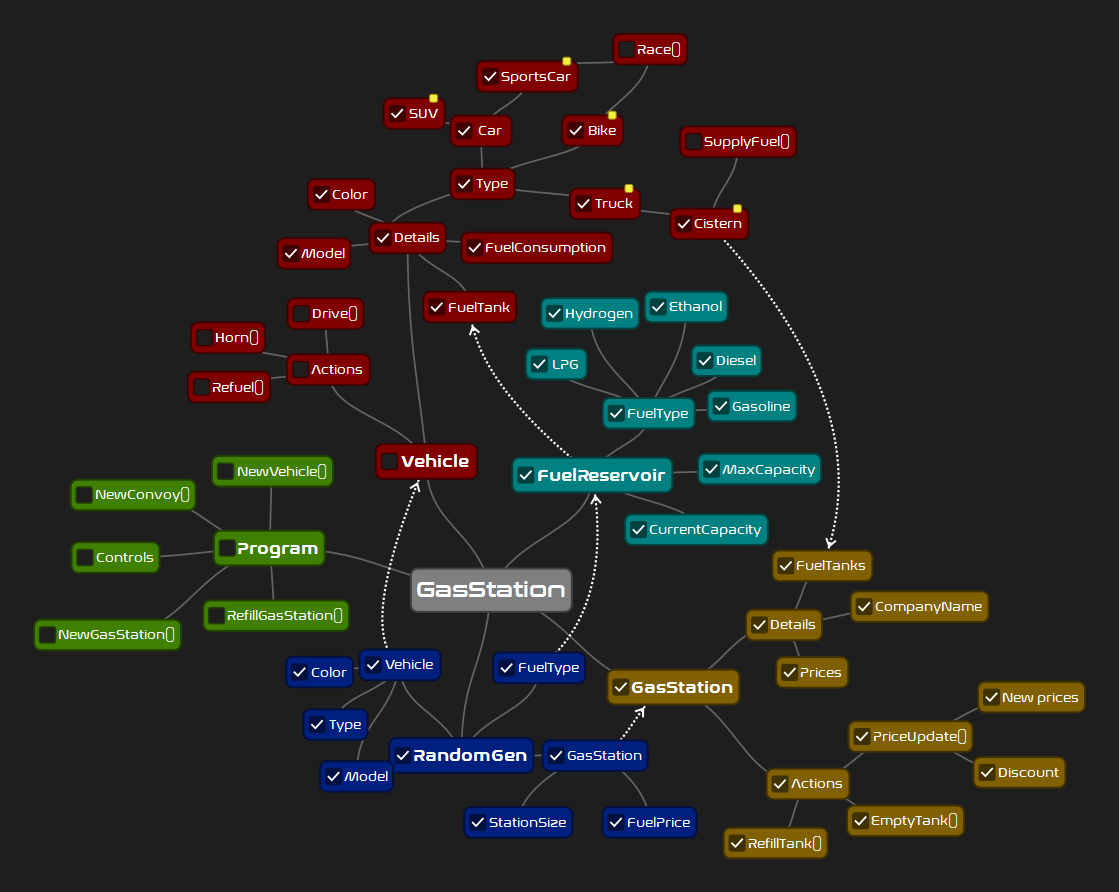
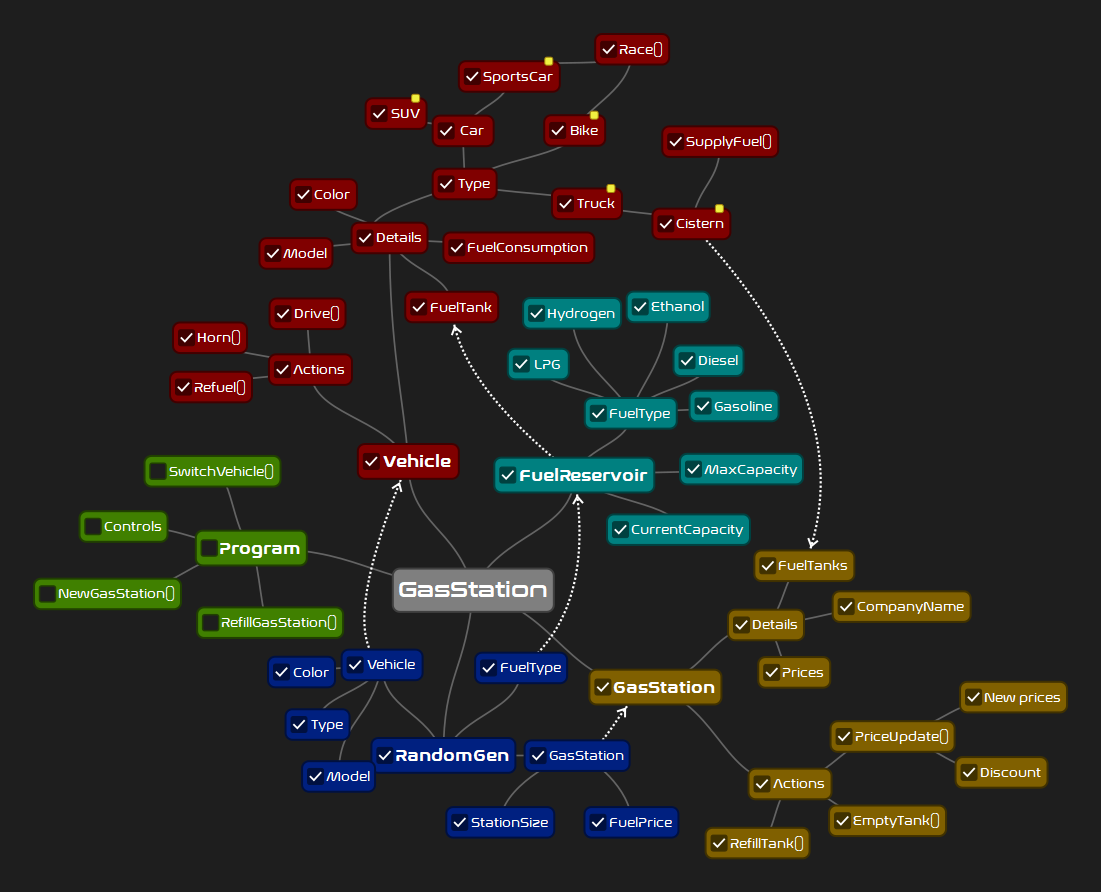
GasStation: added Vehicle functions

diff --git a/week-10/20-GasStation/Vehicle.cs b/week-10/20-GasStation/Vehicle.cs
@@ -6,12 +6,12 @@ namespace _20_GasStation
     class Vehicle
     {
         public enum Type { Car, SportsCar, SUV, Bike, Truck, Cistern }
-        public enum Color { Black, DarkRed, Red, Yellow, SkyBlue, DarkBlue, Metallic, White }
+        public enum Color { Black, Dark_Red, Red, Yellow, Sky_Blue, Dark_Blue, Metallic, White }
         protected string VehicleType { get; }
         protected string VehicleModel { get; }
         protected string VehicleColor { get; }
         protected float FuelConsumption;
-        FuelReservoir FuelTank;
+        protected FuelReservoir FuelTank;
 
         public Vehicle(Type vehicle, string model, string color, FuelReservoir.Type fuel)
         {
@@ -35,6 +35,8 @@ namespace _20_GasStation
                     FuelConsumption = 1.0f * Program.defaultUnit;
                     break;
             }
+            if (vehicle == Type.Cistern) FuelTank.CurrentCapacity = FuelTank.MaxCapacity;
+            else FuelTank.CurrentCapacity = 3 * (int)FuelConsumption;
         }
 
         public Vehicle(Type vehicle, string model, Color color, FuelReservoir.Type fuel)
@@ -63,9 +65,68 @@ namespace _20_GasStation
 
         public override string ToString()
         {
-            return $"\nYou're now driving {VehicleColor.ToLower()} {VehicleModel}!\n" +
+            return $"\nYou're now driving {VehicleColor.ToLower().Replace("_"," ")} {VehicleModel}!\n" +
                    $"Vehicle type: {VehicleType} | Fuel type: {FuelTank.FuelType}\n" +
                    $"Fuel status: {FuelTank.CurrentCapacity}/{FuelTank.MaxCapacity}";
+        }
+
+        public void Horn()
+        {
+            Console.WriteLine($"Your {VehicleColor.ToLower().Replace("_", " ")} {VehicleModel} is now honking!");
+        }
+
+        public void Drive()
+        {
+            if (FuelTank.CurrentCapacity == 0)
+            {
+                Console.WriteLine($"Your {VehicleColor.ToLower().Replace("_", " ")} {VehicleModel} majestically " +
+                                  $"stands in the middle of the road... " +
+                                  $"({FuelTank.CurrentCapacity}/{FuelTank.MaxCapacity})");
+            }
+            else if (FuelConsumption > FuelTank.CurrentCapacity && FuelTank.CurrentCapacity > 0)
+            {
+                Console.WriteLine($"Your car has just run out of fuel. Thankfully, good people of the road " +
+                                  $"helped to push your car to the closest gas station. (you would have " +
+                                  $"{FuelTank.CurrentCapacity - (int)FuelConsumption}/{FuelTank.MaxCapacity})");
+                FuelTank.CurrentCapacity = 0;
+            }
+            
+            else
+            {
+                if (2 * FuelConsumption >= FuelTank.CurrentCapacity)
+                {
+                    Console.WriteLine($"You should visit the gas station, your fuel tank is running dry! " +
+                                      $"({FuelTank.CurrentCapacity}/{FuelTank.MaxCapacity})");
+                }
+                Console.WriteLine($"You are cruising the land like a boss in your {VehicleColor.ToLower()} " +
+                                  $"{VehicleModel}! (-{(int)FuelConsumption} units of fuel)");
+                FuelTank.CurrentCapacity -= (int)FuelConsumption;
+            }
+        }
+
+        public void Refuel(GasStation station, uint amount)
+        {
+            if (amount + FuelTank.CurrentCapacity > FuelTank.MaxCapacity)
+            {
+                Refuel(station);
+            }
+            else if(amount > station.FuelTanks[(int)FuelTank.FuelType].CurrentCapacity)
+            {
+                Refuel(station, (uint)station.FuelTanks[(int)FuelTank.FuelType].CurrentCapacity);
+            }
+            else
+            {
+                Console.WriteLine($"You have bought {amount} units of {FuelTank.FuelType} for " +
+                                  $"{amount*station.Prices[(int)FuelTank.FuelType]/ Program.defaultUnit:0.00} Cr.!");
+                FuelTank.CurrentCapacity += (int)amount;
+                Console.WriteLine($"(your tank is now at {FuelTank.CurrentCapacity}/{FuelTank.MaxCapacity})");
+                station.EmptyTank(FuelTank.FuelType, amount);
+            }
+        }
+
+        public void Refuel(GasStation station)
+        {
+            Refuel(station, (uint)(FuelTank.MaxCapacity - FuelTank.CurrentCapacity));
         }
     }
     
@@ -73,9 +134,7 @@ namespace _20_GasStation
     {
         public Car(string model, string color, FuelReservoir.Type fuel, Type type = Type.Car)
             : base(type, model, color, fuel)
-        {
-            
-        }
+        { }
 
         public Car(string model, Color color, FuelReservoir.Type fuel)
             : this(model, color.ToString(), fuel)
@@ -117,6 +176,46 @@ namespace _20_GasStation
         public SportsCar()
             : this(RandomGen.FuelType())
         { }
+
+        public void Race()
+        {
+            if (FuelTank.CurrentCapacity == 0)
+            {
+                Console.WriteLine($"Your {VehicleColor.ToLower().Replace("_", " ")} {VehicleModel} majestically " +
+                                  $"stands in the middle of the road... " +
+                                  $"({FuelTank.CurrentCapacity}/{FuelTank.MaxCapacity})");
+            }
+            else if (2.5 * FuelConsumption > FuelTank.CurrentCapacity && FuelTank.CurrentCapacity > 0)
+            {
+                if(FuelConsumption < FuelTank.CurrentCapacity)
+                {
+                    Console.WriteLine($"You were too scared to race, as you were low on fuel " +
+                                      $"({FuelTank.CurrentCapacity}/{FuelTank.MaxCapacity}), so instead you drove " +
+                                      $"your {VehicleColor.ToLower().Replace("_", " ")} {VehicleModel} to" +
+                                      $"the closest gas station. (-{(int)FuelConsumption} units of fuel)");
+                    FuelTank.CurrentCapacity -= (int)FuelConsumption;
+                }
+                else
+                {
+                    Console.WriteLine($"Your car has just run out of fuel. Thankfully, good people of the road " +
+                                      $"helped to push your car to the closest gas station. (you would have " +
+                                      $"{FuelTank.CurrentCapacity - (int)FuelConsumption}/{FuelTank.MaxCapacity})");
+                    FuelTank.CurrentCapacity = 0;
+                }
+            }
+            else
+            {
+                if (5 * FuelConsumption >= FuelTank.CurrentCapacity)
+                {
+                    Console.WriteLine($"You should visit the gas station, your fuel tank is running dry! " +
+                                      $"({FuelTank.CurrentCapacity}/{FuelTank.MaxCapacity})");
+                }
+                Console.WriteLine($"You are blazing through the land in your {VehicleColor.ToLower()} " +
+                                  $"{VehicleModel}, aiming for new speed record! " +
+                                  $"(-{(int)(2.5 * FuelConsumption)} units of fuel)");
+                FuelTank.CurrentCapacity -= (int)(2.5 * FuelConsumption);
+            }
+        }
     }
 
     class SUV : Car
@@ -189,6 +288,36 @@ namespace _20_GasStation
         public Cistern()
             : this(RandomGen.FuelType())
         { }
+
+        public void SupplyFuel(GasStation station, uint amount)
+        {
+            if (amount == 0)
+            {
+                Console.WriteLine($"{station.CompanyName} gas station has it's " +
+                                  $"{FuelTank.FuelType.ToString().ToLower()} tank already full!");
+            }
+            else if (amount + station.FuelTanks[(int)FuelTank.FuelType].CurrentCapacity
+                     > station.FuelTanks[(int)FuelTank.FuelType].MaxCapacity)
+            {
+                SupplyFuel(station, (uint)(station.FuelTanks[(int)FuelTank.FuelType].MaxCapacity
+                           - station.FuelTanks[(int)FuelTank.FuelType].CurrentCapacity));
+            }
+
+            else
+            {
+                Console.WriteLine($"{station.CompanyName} gas station has bought from you {amount} units " +
+                                  $"of {FuelTank.FuelType.ToString().ToLower()} for " +
+                                  $"{amount * station.Prices[(int)FuelTank.FuelType] * 0.8 / Program.defaultUnit:0.00}" +
+                                  $" credits!");
+                FuelTank.CurrentCapacity -= (int)amount;
+                station.RefillTank(FuelTank.FuelType, amount);
+            }
+        }
+
+        public void SupplyFuel(GasStation station)
+        {
+            SupplyFuel(station, (uint)FuelReservoir.GetCapacity(GasStation.Size.Regular));
+        }
     }
 
     class Bike : Vehicle
@@ -207,11 +336,51 @@ namespace _20_GasStation
         { }
 
         public Bike(FuelReservoir.Type fuel)
-            : this(RandomGen.VehicleModel(Type.Car), fuel)
+            : this(RandomGen.VehicleModel(Type.Bike), fuel)
         { }
 
         public Bike()
             : this(RandomGen.FuelType())
         { }
+
+        public void Race()
+        {
+            if (FuelTank.CurrentCapacity == 0)
+            {
+                Console.WriteLine($"Your {VehicleColor.ToLower().Replace("_", " ")} {VehicleModel} majestically " +
+                                  $"stands in the middle of the road... " +
+                                  $"({FuelTank.CurrentCapacity}/{FuelTank.MaxCapacity})");
+            }
+            else if (2 * FuelConsumption > FuelTank.CurrentCapacity && FuelTank.CurrentCapacity > 0)
+            {
+                if (FuelConsumption < FuelTank.CurrentCapacity)
+                {
+                    Console.WriteLine($"You were too scared to race, as you were low on fuel " +
+                                      $"({FuelTank.CurrentCapacity}/{FuelTank.MaxCapacity}), so instead you drove " +
+                                      $"your {VehicleColor.ToLower().Replace("_", " ")} {VehicleModel} to" +
+                                      $"the closest gas station. (-{FuelConsumption} units of fuel)");
+                    FuelTank.CurrentCapacity -= (int)FuelConsumption;
+                }
+                else
+                {
+                    Console.WriteLine($"Your car has just run out of fuel. Thankfully, good people of the road " +
+                                      $"helped to push your car to the closest gas station. (you would have " +
+                                      $"{FuelTank.CurrentCapacity - (int)FuelConsumption}/{FuelTank.MaxCapacity})");
+                    FuelTank.CurrentCapacity = 0;
+                }
+            }
+            else
+            {
+                if (4 * FuelConsumption >= FuelTank.CurrentCapacity)
+                {
+                    Console.WriteLine($"You should visit the gas station, your fuel tank is running dry! " +
+                                      $"({FuelTank.CurrentCapacity}/{FuelTank.MaxCapacity})");
+                }
+                Console.WriteLine($"You are blazing through the land in your {VehicleColor.ToLower()} " +
+                                  $"{VehicleModel}, aiming for new speed record! " +
+                                  $"(-{(int)(2 * FuelConsumption)} units of fuel)");
+                FuelTank.CurrentCapacity -= (int)(2 * FuelConsumption);
+            }
+        }
     }
 }

diff --git a/week-10/20-GasStation/Program.cs b/week-10/20-GasStation/Program.cs
@@ -9,12 +9,12 @@ namespace _20_GasStation
 
         static void Main(string[] args)
         {
-            GasStation station1 = new GasStation(GasStation.Size.Small,"McGass");
+            GasStation station1 = new GasStation(GasStation.Size.Large,"McGass");
             station1.EmptyTank(FuelReservoir.Type.Gasoline, 200);
             station1.EmptyTank(FuelReservoir.Type.Diesel, 250);
             station1.EmptyTank(FuelReservoir.Type.Ethanol, 50);
             station1.EmptyTank(FuelReservoir.Type.LPG, 650);
-            station1.EmptyTank(FuelReservoir.Type.Hydrogen, 1000);
+            station1.EmptyTank(FuelReservoir.Type.Hydrogen, 3000);
             Console.WriteLine(station1.ToString());
 
             for (int i = 0; i < 10; i++)
@@ -22,6 +22,20 @@ namespace _20_GasStation
                 Vehicle vehicle = new Vehicle();
                 Console.WriteLine(vehicle.ToString());
             }
+
+            Bike vehicle1 = new Bike();
+            Console.WriteLine(vehicle1.ToString());
+            vehicle1.Race();
+            vehicle1.Horn();
+            vehicle1.Refuel(station1,25);
+            vehicle1.Race();
+            vehicle1.Race();
+            vehicle1.Drive();
+
+            Cistern vehicle2 = new Cistern(FuelReservoir.Type.Hydrogen);
+            vehicle2.Horn();
+            vehicle2.SupplyFuel(station1);
+            Console.WriteLine(vehicle2.ToString());
 
         }
 

diff --git a/week-10/20-GasStation/FuelReservoir.cs b/week-10/20-GasStation/FuelReservoir.cs
@@ -36,7 +36,7 @@ namespace _20_GasStation
             : this(fuel, GetCapacity(size), GetCapacity(size))
         { }
 
-        static int GetCapacity(Vehicle.Type vehicle)
+        public static int GetCapacity(Vehicle.Type vehicle)
         {
             switch (vehicle)
             {
@@ -53,7 +53,7 @@ namespace _20_GasStation
             }
         }
 
-        static int GetCapacity(GasStation.Size size)
+        public static int GetCapacity(GasStation.Size size)
         {
             switch (size)
             {

diff --git a/week-10/20-GasStation/GasStation.cs b/week-10/20-GasStation/GasStation.cs
@@ -42,7 +42,7 @@ namespace _20_GasStation
             {
                 text += $"\n{ FuelTanks[i].FuelType.ToString()} " +
                         $"({FuelTanks[i].CurrentCapacity}/{FuelTanks[i].MaxCapacity})" +
-                        $"\nPrice: {Prices[i]:0.00} Cr. per unit";
+                        $"\nPrice: {Prices[i]:0.00} Cr. per {Program.defaultUnit} unit(s)";
             }
             return text;
         }
